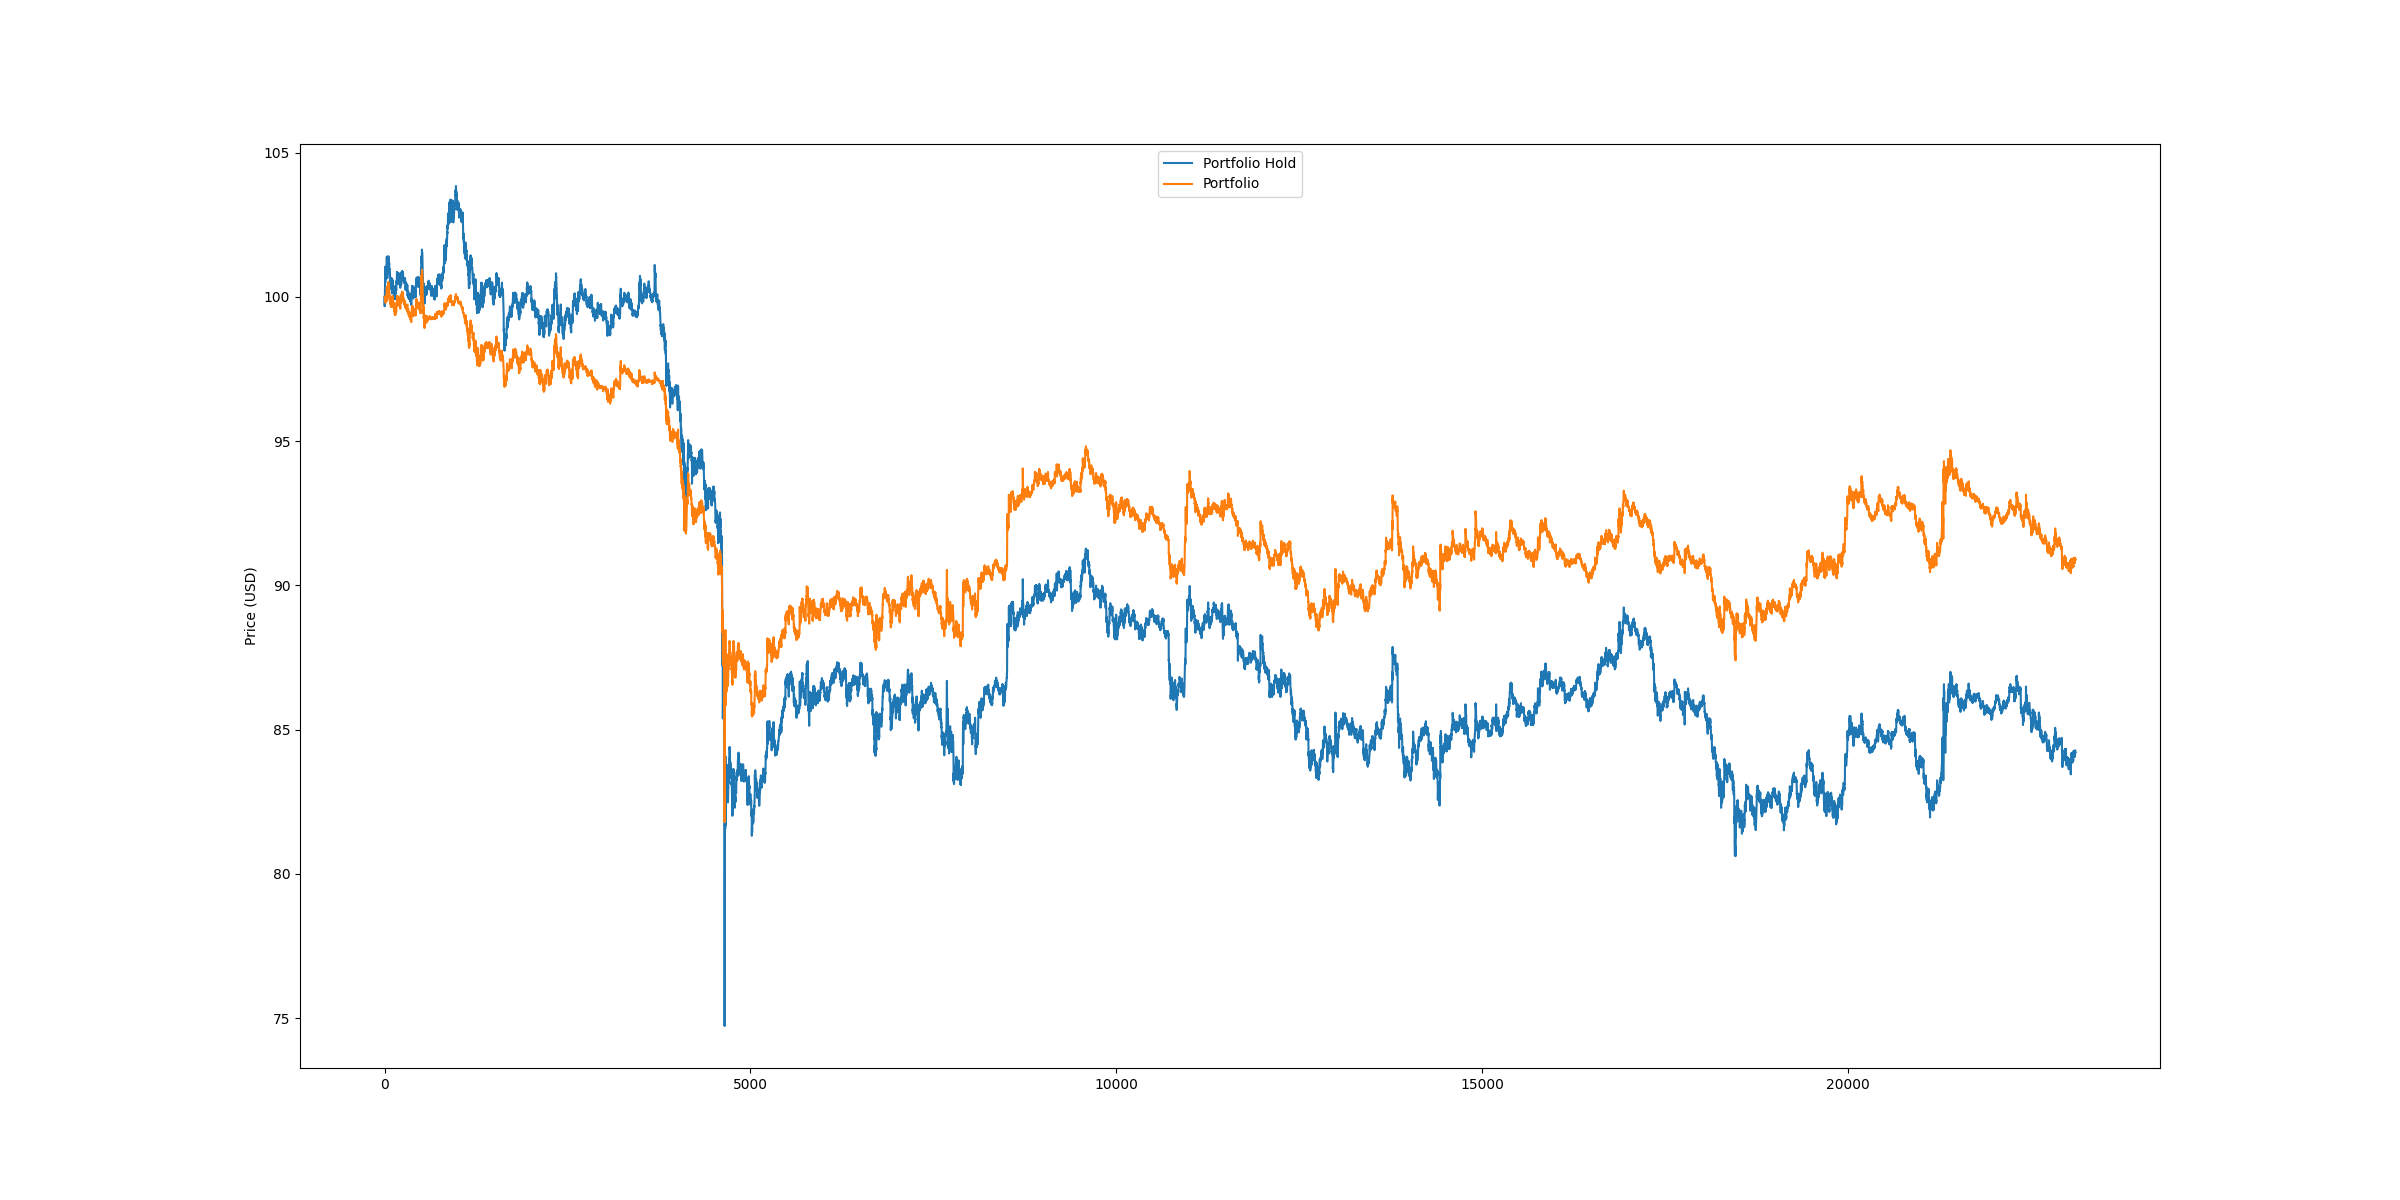
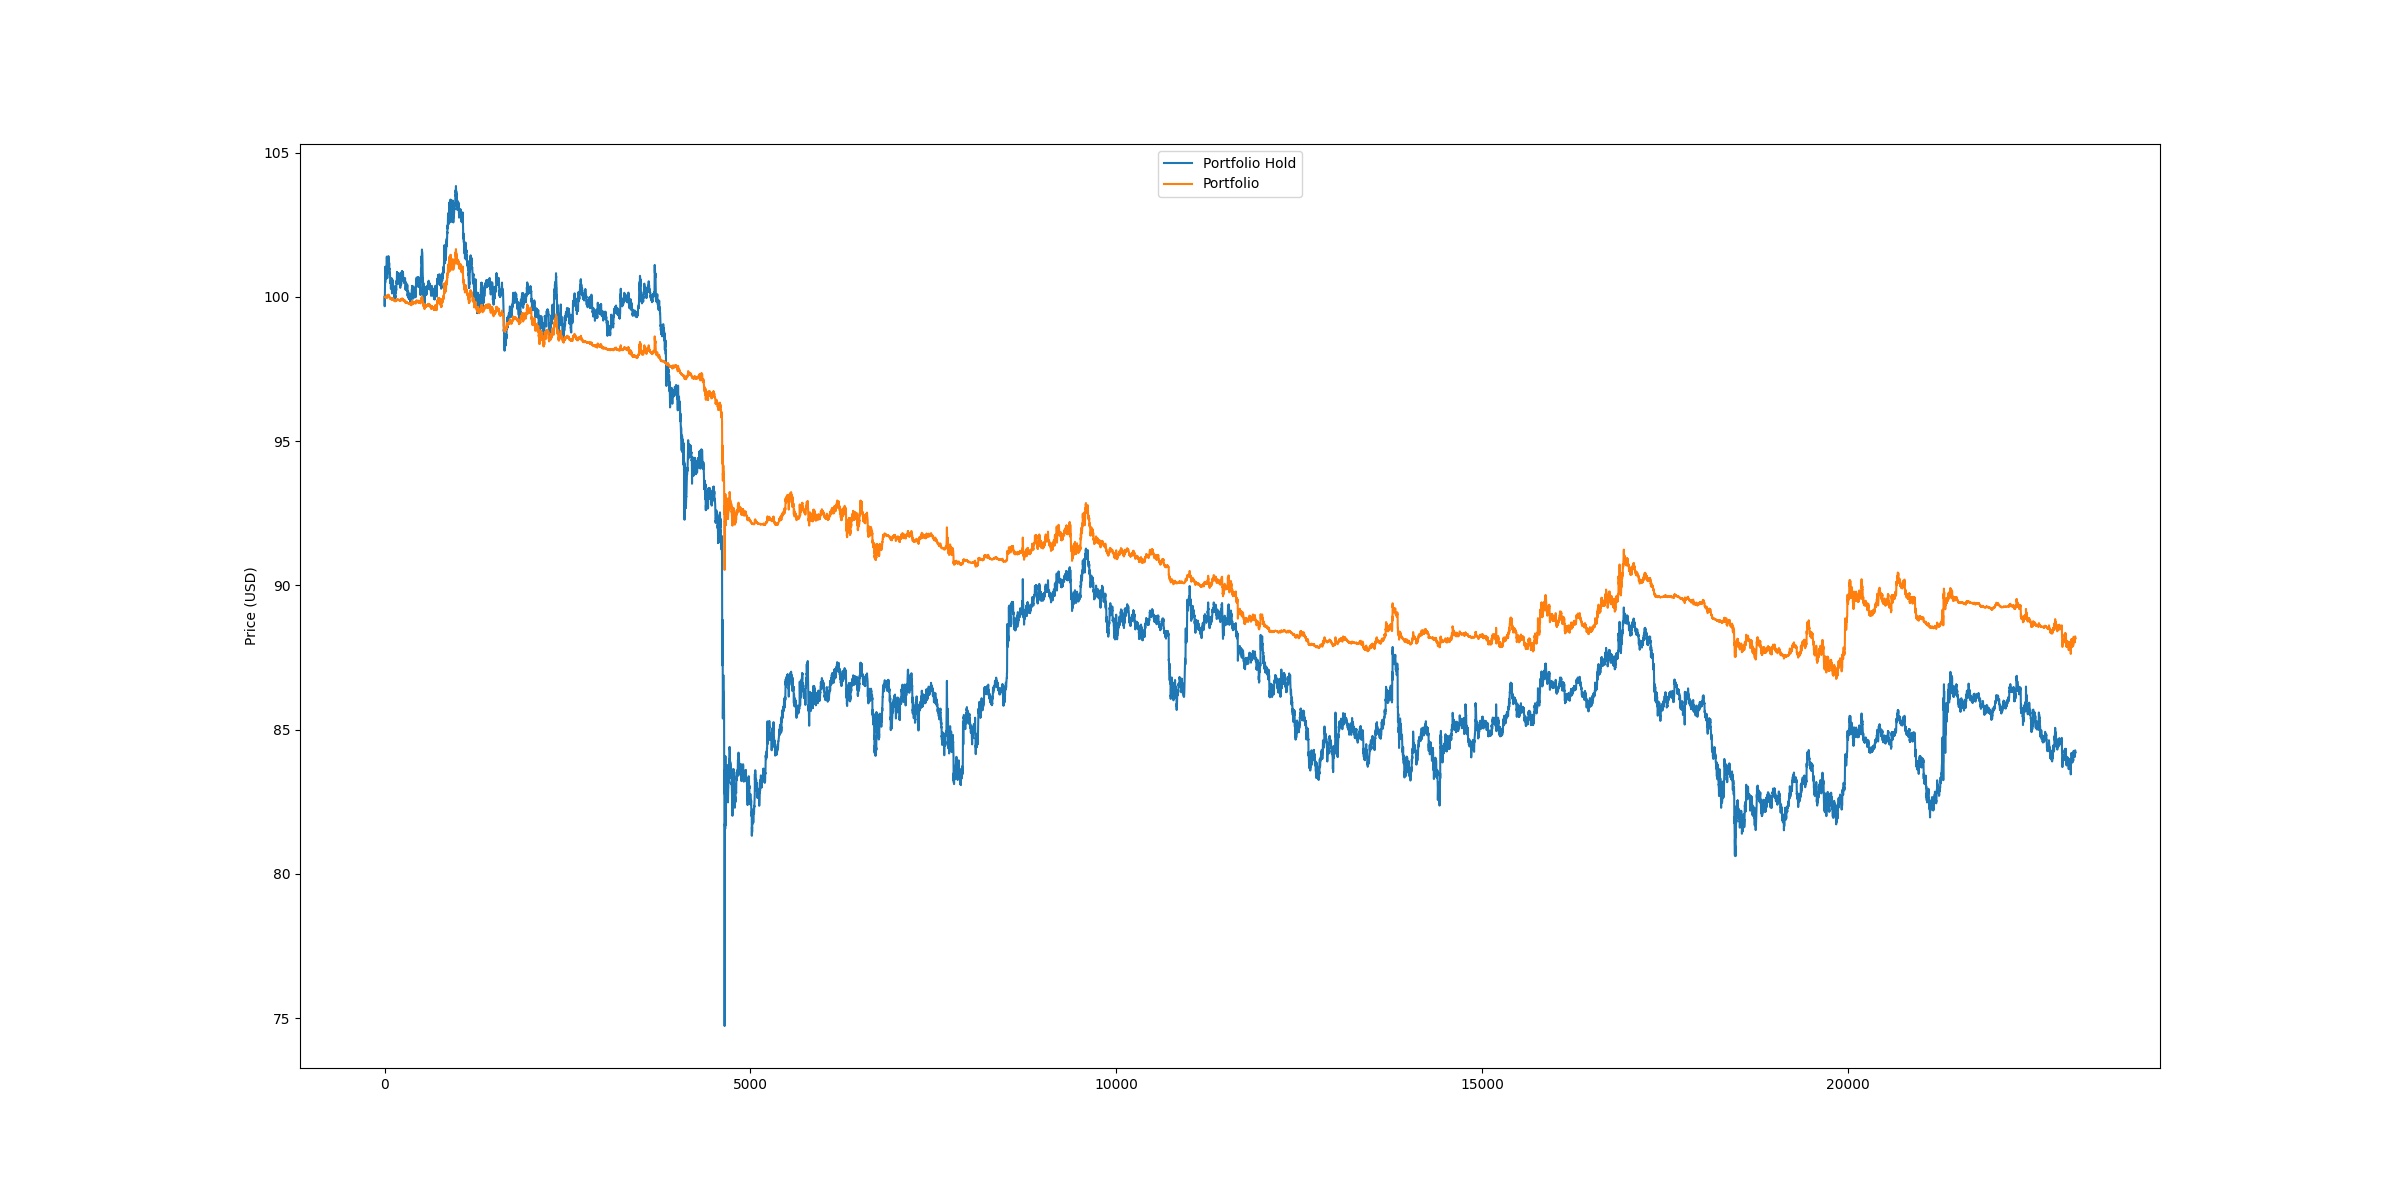
init order class

Changed region(s): [[0.2812, 0.37, 0.8438, 0.5858], [0.1562, 0.2158, 0.3125, 0.3392], [0.8438, 0.4317, 0.875, 0.4625]]

diff --git a/src/backtest.py b/src/backtest.py
@@ -81,7 +81,7 @@ def run_backtest(strat, port, df):
         print(f'{port.get_fiat()}: {port.get_fiat_quantity()} {port.get_coin()}: {port.get_coin_quantity()} total value ({port.get_fiat()}): {port.get_value_in_fiat(coin_price=price)}')
         print('--------------\n')
 
-    percent_change = ((portfolio.get_value_in_fiat() -
+    percent_change = ((portfolio[-1] -
                       start_fiat) / start_fiat) * 100
 
     plot_data(x_data=[range(len(coin_price)), range(len(mvas))],
@@ -106,12 +106,12 @@ if __name__ == '__main__':
 
     # Goal: user can enter any pair of currencies, for example BTC - USD, and the script will run all the specified backtests
 
-    strategies = [SimpleMVA(period=5, equity_per_trade=0.50),
-                  SimpleMVA(period=10, equity_per_trade=0.50),
-                  SimpleMVA(period=20, equity_per_trade=0.50),
-                  SimpleMVA(period=60, equity_per_trade=0.50),
-                  SimpleMVA(period=144, equity_per_trade=0.50),
-                  SimpleMVA(period=1440, equity_per_trade=0.50)]
+    strategies = [SimpleMVA(period=5, equity_per_trade=0.05),
+                  SimpleMVA(period=10, equity_per_trade=0.05),
+                  SimpleMVA(period=20, equity_per_trade=0.05),
+                  SimpleMVA(period=60, equity_per_trade=0.05),
+                  SimpleMVA(period=144, equity_per_trade=0.05),
+                  SimpleMVA(period=1440, equity_per_trade=0.05)]
 
     portfolios = [Portfolio(coin='BTC', coin_quantity=0,
                             fiat='USD', fiat_quantity=100),

diff --git a/src/order.py b/src/order.py
@@ -1,0 +1,17 @@
+class Order:
+
+    def __init__(self, type, currency, quantity, stop_loss=0.03, take_profit=0.06):
+        self.type = type
+        self.currency = currency
+        self.quantity = quantity
+        self.stoploss = stop_loss
+        self.take_profit = take_profit
+
+    def get_type(self):
+        return self.type
+
+    def get_currency(self):
+        return self.currency
+
+    def get_quantity(self):
+        return self.quantity
